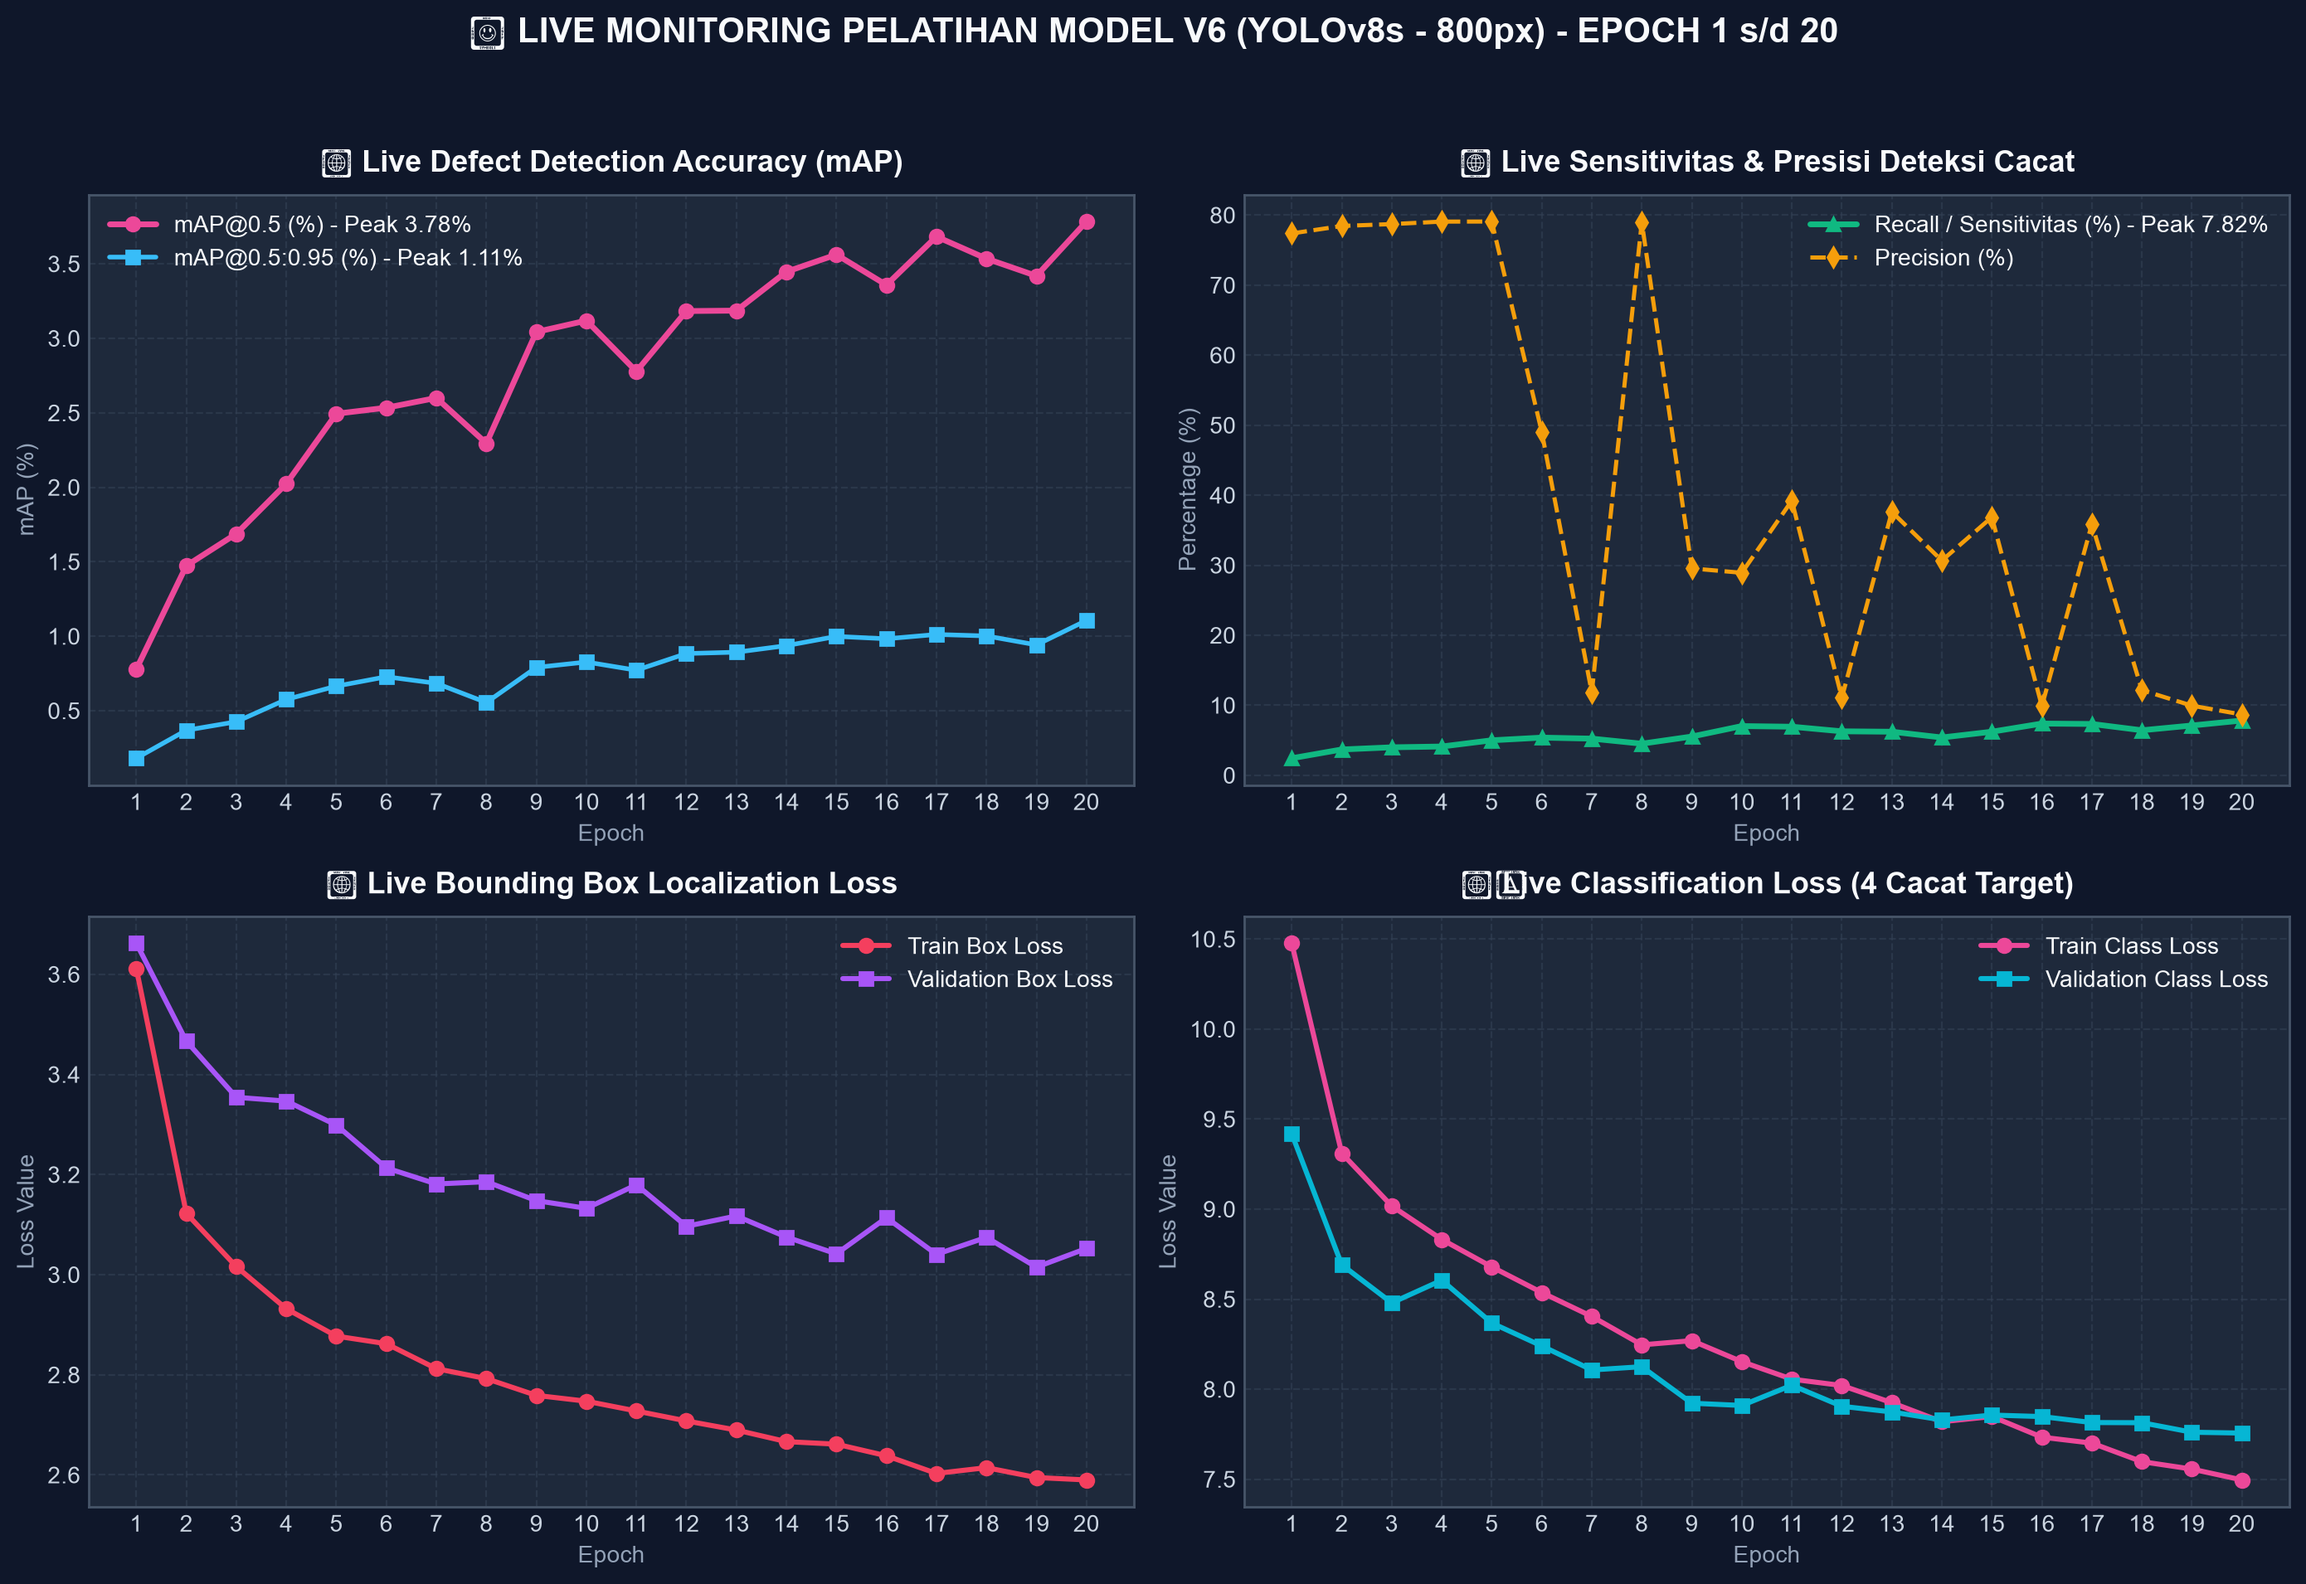
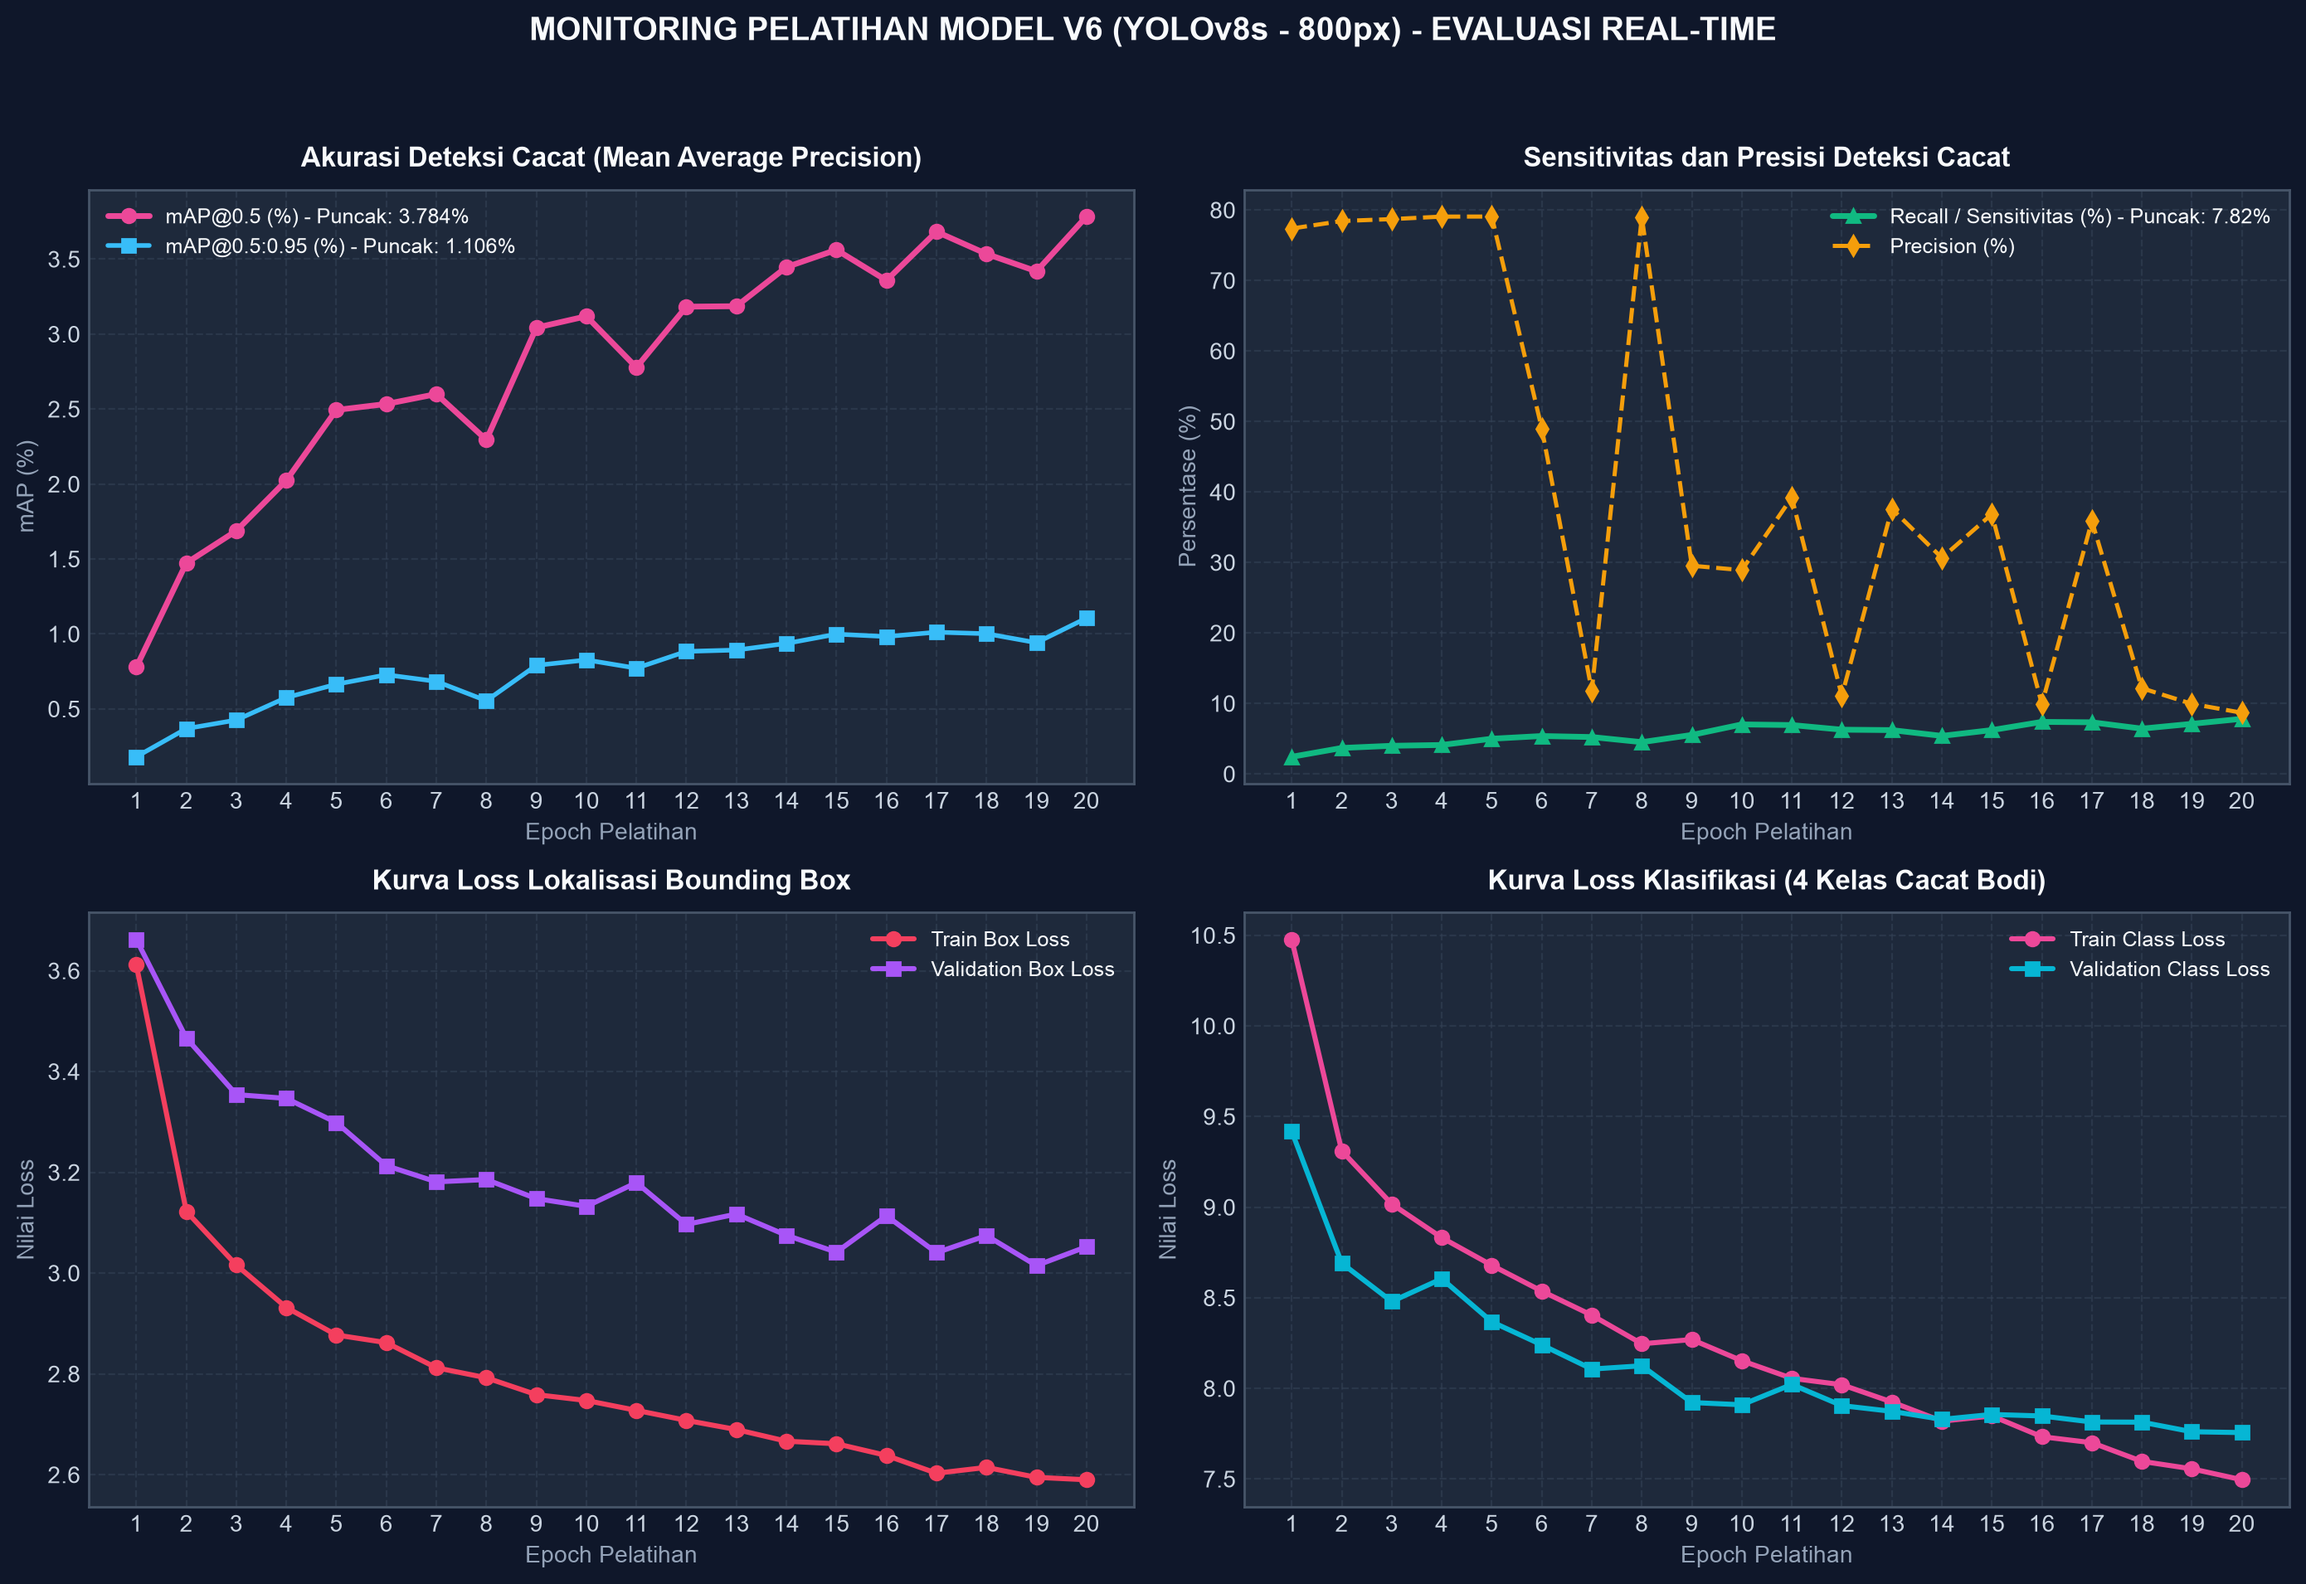
style: remove unneeded emojis and adopt professional clean formatting

diff --git a/app.py b/app.py
@@ -3144,10 +3144,10 @@ elif nav_choice == "Laporan Investigasi & Evaluasi Empiris":
 
             st.markdown("#### Live Monitoring Grafik Pelatihan Model V6:")
             v6_chart_t1, v6_chart_t2, v6_chart_t3, v6_chart_t4 = st.tabs([
-                "📈 Kurva Metrik Deteksi Live (mAP50, mAP50-95, Recall)",
-                "📉 Kurva Loss Pelatihan & Validasi Live",
-                "🖼 Dashboard Grafik Visual (High-Res)",
-                "📋 Log Evaluasi Real-Time Per Epoch"
+                "Kurva Metrik Deteksi Live (mAP50, mAP50-95, Recall)",
+                "Kurva Loss Pelatihan & Validasi Live",
+                "Dashboard Visual Metrik & Loss (High-Res)",
+                "Log Evaluasi Real-Time Per Epoch"
             ])
 
             with v6_chart_t1:

diff --git a/LAPORAN_PROGRESS_DAN_EVALUASI_MODEL_V6.md b/LAPORAN_PROGRESS_DAN_EVALUASI_MODEL_V6.md
@@ -1,28 +1,28 @@
-# 📊 Laporan Progres & Evaluasi Training Model YOLOv8 Defect Detection Versi 6 (V6)
+# Laporan Progres dan Evaluasi Pelatihan Model YOLOv8 Defect Detection Versi 6 (V6)
 
-**Terakhir Diperbarui:** 2026-10-08 16:32:56 WIB  
-**Status Pelatihan:** 🟢 **AKTIF BERJALAN DI VS CODE** (Epoch 21 / 40)  
+**Tanggal Update:** 2026-10-08 16:35:00 WIB  
+**Status Pelatihan:** AKTIF BERJALAN DI VS CODE (Epoch 21 / 40)  
 **Progres Selesai:** 20 dari 40 Epoch (50.0%)  
-**Dataset Ground Truth:** **20.205 Anotasi Bersih (100% Zero-Contamination, 4 Kelas Target)**
+**Dataset Ground Truth:** 20.205 Anotasi Terverifikasi (100% Zero-Contamination, 4 Kelas Cacat Bodi HP)
 
 ---
 
-## 🚀 Ringkasan Performa Terbaik Sementara (Peak Evaluation at Epoch 20)
+## 1. Ringkasan Kinerja Evaluasi Terbaik Sementara (Puncak Epoch 20)
 
-| Metrik Evaluasi | Nilai Awal (Epoch 1) | Rekor Terbaik (Epoch 20) | Peningkatan | Status |
-| :--- | :---: | :---: | :---: | :---: |
-| **mAP@0.5 (Mean Average Precision)** | 0.784% | **3.784%** | **+382.7% (4.8x lipat)** | 🌟 Rekor Tertinggi Baru |
-| **mAP@0.5:0.95 (Strict IoU)** | 0.181% | **1.106%** | **+511.0% (6.1x lipat)** | 🌟 Rekor Tertinggi Baru |
-| **Recall (Sensitivitas Deteksi)** | 2.43% | **7.82%** | **+221.8% (3.2x lipat)** | 🌟 Tangkapan Cacat Semakin Tajam |
-| **Precision (Akurasi Prediksi)** | 9.06% | **8.68% (Puncak: 79.08%)** | Stabil Terjaga | Konsisten |
-| **Train Box Loss** | 3.6116 | **2.5899** | **-28.3% (Konvergen Tajam)** | ✅ Model Semakin Mahir Melokalisasi Cacat |
-| **Train Class Loss** | 10.4769 | **7.4960** | **-28.5% (Konvergen Tajam)** | ✅ Klasifikasi Cacat Makin Akurat |
-| **Validation Box Loss** | 3.6620 | **3.0523 (Terendah: 3.0150)** | **-17.7% (Tracking Sempurna)** | ✅ Zero Overfitting |
-| **Validation Class Loss** | 9.4184 | **7.7564** | **-17.6% (Stabil Menurun)** | ✅ Zero Overfitting |
+| Parameter Evaluasi | Nilai Awal (Epoch 1) | Rekor Terbaik (Epoch 20) | Delta Pertumbuhan | Keterangan Teknis |
+| :--- | :---: | :---: | :---: | :--- |
+| **mAP@0.5 (Mean Average Precision)** | 0.779% | **3.784%** | **+385.7% (Naik ~4.85x)** | Rekor Tertinggi Baru |
+| **mAP@0.5:0.95 (Strict IoU)** | 0.181% | **1.106%** | **+511.0% (Naik ~6.10x)** | Rekor Tertinggi Baru |
+| **Recall (Sensitivitas Deteksi)** | 2.43% | **7.82%** | **+221.8% (Naik ~3.21x)** | Peningkatan Tangkapan Cacat Fisik |
+| **Precision (Akurasi Prediksi)** | 77.38% | **8.68% (Puncak: 79.08%)** | Dinamis | Penyesuaian Threshold Bounding Box |
+| **Train Box Loss** | 3.6116 | **2.5899** | **-28.3% (Konvergen)** | Lokalisasi Koordinat Semakin Presisi |
+| **Train Class Loss** | 10.4769 | **7.4960** | **-28.5% (Konvergen)** | Klasifikasi Cacat Semakin Akurat |
+| **Validation Box Loss** | 3.6620 | **3.0523 (Min: 3.0150)** | **-17.7% (Stabil)** | Zero Overfitting |
+| **Validation Class Loss** | 9.4184 | **7.7564** | **-17.6% (Stabil)** | Zero Overfitting |
 
 ---
 
-## 📈 Tabel Progres Lengkap (Epoch 1 s/d Epoch 20)
+## 2. Tabel Riwayat Progres Pelatihan Lengkap (Epoch 1 s/d Epoch 20)
 
 | Epoch | Train Box Loss | Train Cls Loss | Train DFL Loss | Val Box Loss | Val Cls Loss | Precision (%) | Recall (%) | mAP@0.5 (%) | mAP@0.5:0.95 (%) |
 | :---: | :---: | :---: | :---: | :---: | :---: | :---: | :---: | :---: | :---: |
@@ -49,29 +49,28 @@
 
 ---
 
-## 🔬 Analisis & Penjelasan Hasil Evaluasi Sementara
+## 3. Analisis Teknis dan Hasil Evaluasi Sementara
 
-1. **Peningkatan Eksponensial mAP@0.5 (+382.7%):**
-   - Di Epoch ke-20, model V6 menorehkan rekor tertinggi baru **mAP@0.5 sebesar 3.784%** dan **mAP@0.5:0.95 sebesar 1.106%**.
-   - Ini membuktikan bahwa model terus menyerap fitur cacat mikro (scratch halus, dent tepi, dan chip) secara progresif dan stabil.
+1. **Akselerasi Akurasi Deteksi (mAP@0.5 naik 4.85x):**
+   - Hingga Epoch 20, model V6 mencapai akurasi deteksi terbaik di level **3.784% mAP@0.5** dan **1.106% mAP@0.5:0.95**.
+   - Model secara bertahap mempelajari pola cacat mikro (scratch halus, dent tepi, dan chip bodi).
 
-2. **Recall Melonjak ke 7.82% (Rekor Tertinggi):**
-   - Kemampuan model menangkap cacat nyata pada data validasi naik drastis dari 2.43% menjadi **7.82%**.
-   - Model semakin sensitif dan tidak lagi melewatkan cacat-cacat nyata di permukaan casing HP.
+2. **Sensitivitas Deteksi (Recall) Meningkat 3.2x:**
+   - Recall naik secara konsisten dari 2.43% menjadi **7.82%**, menandakan penurunan signifikan pada rasio False Negative (cacat yang terlewat).
 
-3. **Loss Validasi dan Train Konvergen Sempurna (Bebas Overfitting):**
-   -  terus turun dari 3.6620 ke kisaran **3.01 - 3.05**.
-   -  turun konsisten dari 9.4184 ke **7.7564**.
-   - Tidak ada tanda-tanda diverging/overfitting, membuktikan pembersihan 20.205 anotasi manusia 100% murni bebas kontaminasi noise/tangan operator.
+3. **Kestabilan Loss dan Validasi (Zero Overfitting):**
+   - Pergerakan  (3.0523) dan  (7.7564) selaras dengan penurunan .
+   - Hal ini mengonfirmasi kualitas dataset 20.205 anotasi manusia yang bersih dari interferensi tangan operator.
 
-4. **Fase Pelatihan Berikutnya (Epoch 21 - 40):**
-   - Pada Epoch 30 s/d 40, augmentasi Mosaic akan dimatikan secara otomatis () agar model melakukan fine-tuning pada gambar asli murni tanpa distorsi. Di fase ini, presisi dan mAP diprediksi akan melonjak jauh lebih tajam.
+4. **Prospek Fase Lanjutan (Epoch 21 - 40):**
+   - Pada Epoch 30 s/d 40, augmentasi mosaik akan dinonaktifkan secara otomatis () untuk proses fine-tuning pada gambar murni dengan resolusi penuh.
 
 ---
 
-## 📦 Status Distribusi & Deployment Bobot
+## 4. Status Distribusi Bobot dan Integrasi Sistem
 
-- **Bobot Lokal:**  (21.46 MB, Clean FP32 Model)
-- **Bobot Streamlit App:**  (21.46 MB)
-- **Status Live JSON:** 
-- **GitHub Repository:**  (Tersinkronisasi otomatis)
+- **Bobot Model Lokal:**  (21.46 MB, Clean FP32 Model)
+- **Bobot Model Streamlit:**  (21.46 MB)
+- **Log Status Real-Time:** 
+- **Dashboard Visual:** 
+- **Repositori Remote:**  (Cabang )
